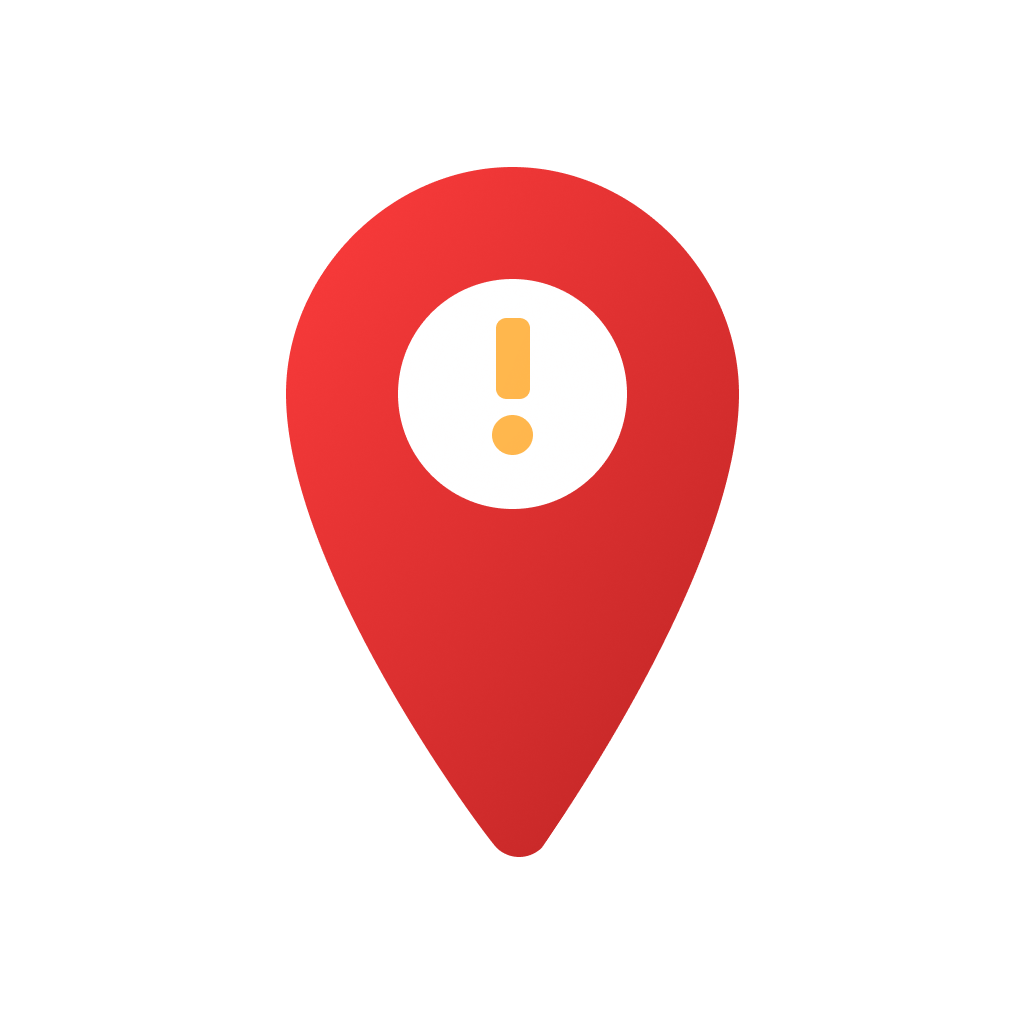
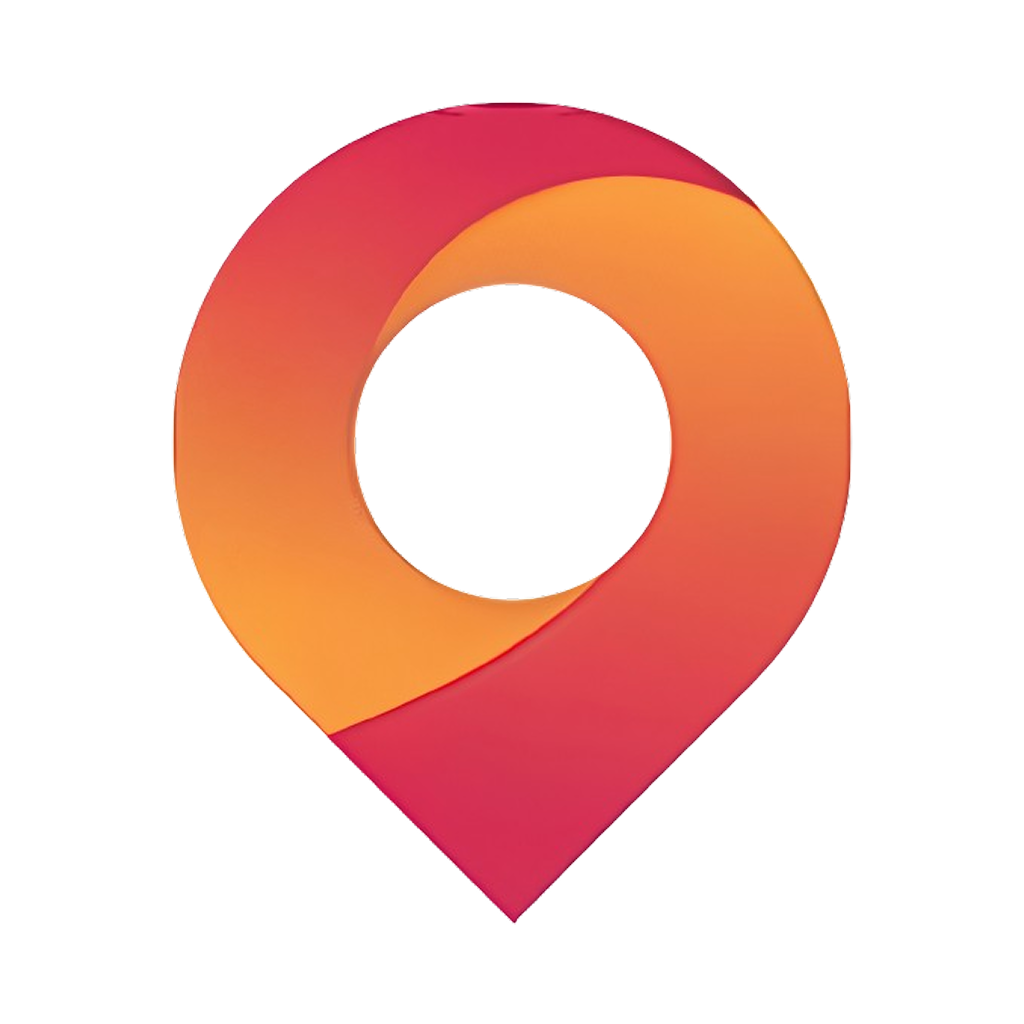
feat(android): add vibration and local notifications
- Update Android build configuration to support Java 11
- Add necessary dependencies for desugaring and androidx.window
- Add INTERNET and VIBRATE permissions to AndroidManifest.xml
- Update app icons
- Add vibration support for emergency alerts
- Add local notifications to display alerts and status updates

diff --git a/mobile/lib/pages/alerts.dart b/mobile/lib/pages/alerts.dart
@@ -3,12 +3,17 @@ import 'dart:async';
 import 'package:emergency_pulse/components/dialogs/info.dart';
 import 'package:emergency_pulse/controllers/info.controller.dart';
 import 'package:emergency_pulse/controllers/network.controller.dart';
+import 'package:emergency_pulse/controllers/settings.controller.dart';
 import 'package:emergency_pulse/enums/status.dart';
 
 import 'package:avatar_glow/avatar_glow.dart';
 import 'package:dough/dough.dart';
+import 'package:emergency_pulse/utils/dialog.dart';
 import 'package:flutter/material.dart';
+import 'package:flutter_local_notifications/flutter_local_notifications.dart';
 import 'package:get/get.dart';
+import 'package:vibration/vibration.dart';
+import 'package:vibration/vibration_presets.dart';
 
 class PageAlerts extends StatelessWidget {
   const PageAlerts({super.key});
@@ -17,8 +22,10 @@ class PageAlerts extends StatelessWidget {
   Widget build(BuildContext context) {
     final infoCtrl = Get.find<InfoController>();
     final networkCtrl = Get.find<NetworkController>();
-    final timeoutInSeconds = 5;
+    final settingsCtrl = Get.find<SettingsController>();
+    final timeoutInSeconds = 3;
     final currentTimeout = timeoutInSeconds.obs;
+    final isPressed = false.obs;
     final scale = 1.0.obs;
 
     Timer? timer;
@@ -169,113 +176,119 @@ class PageAlerts extends StatelessWidget {
                             networkCtrl.status.value ==
                                 NetworkStatus.connected &&
                             !infoCtrl.isSendingAlert.value,
-                        glowColor: currentTimeout.value == timeoutInSeconds
-                            ? Theme.of(context).colorScheme.primary
-                            : Theme.of(context).colorScheme.onSurface,
-                        child: FilledButton(
-                          style: FilledButton.styleFrom(
-                            backgroundColor:
-                                currentTimeout.value == timeoutInSeconds
-                                ? Theme.of(context).colorScheme.primary
-                                : Theme.of(context).colorScheme.onSurface,
-                          ),
-                          onPressed:
-                              infoCtrl.hasInfoFilled() &&
-                                  infoCtrl.isLocationListening.value &&
-                                  networkCtrl.status.value ==
-                                      NetworkStatus.connected &&
-                                  !infoCtrl.isSendingAlert.value
-                              ? () {
-                                  if (currentTimeout.value ==
-                                      timeoutInSeconds) {
-                                    currentTimeout.value--;
+                        glowColor: isPressed.value
+                            ? Theme.of(context).colorScheme.onSurface
+                            : Theme.of(context).colorScheme.primary,
 
-                                    scale.value = 1.2;
+                        child: GestureDetector(
+                          onLongPressStart: (details) {
+                            debugPrint("Long press started");
+                            isPressed.value = true;
 
-                                    timer = Timer.periodic(
-                                      Duration(seconds: 1),
-                                      (timer) {
-                                        currentTimeout.value--;
+                            if (settingsCtrl.hasVibrator.value) {
+                              Vibration.vibrate(
+                                preset: VibrationPreset.gentleReminder,
+                              );
+                            }
 
-                                        if (currentTimeout.value <= 0) {
-                                          timer.cancel();
-                                          scale.value = 1.0;
-                                          currentTimeout.value =
-                                              timeoutInSeconds;
-                                        }
-                                      },
-                                    );
-                                  } else {
-                                    scale.value = 1.0;
-                                    timer?.cancel();
-                                    currentTimeout.value = timeoutInSeconds;
-                                    infoCtrl.checkLocationPermission();
-                                    networkCtrl.sendAlert();
-                                  }
+                            timer = Timer.periodic(const Duration(seconds: 1), (
+                              timer,
+                            ) {
+                              currentTimeout.value--;
+
+                              if (currentTimeout.value <= 0) {
+                                if (settingsCtrl.hasVibrator.value) {
+                                  Vibration.vibrate(
+                                    preset: VibrationPreset.emergencyAlert,
+                                  );
                                 }
-                              : null,
-                          child: Column(
-                            mainAxisSize: MainAxisSize.min,
-                            mainAxisAlignment: MainAxisAlignment.center,
-                            crossAxisAlignment: CrossAxisAlignment.center,
-                            children: [
-                              if (!infoCtrl.isSendingAlert.value)
+
+                                timer.cancel();
+                                isPressed.value = false;
+                                networkCtrl.sendAlert();
+                                currentTimeout.value = timeoutInSeconds;
+                              }
+                            });
+                          },
+                          onLongPressEnd: (details) {
+                            debugPrint("Long press ended");
+                            isPressed.value = false;
+                            timer?.cancel();
+                            currentTimeout.value = timeoutInSeconds;
+
+                            if (settingsCtrl.hasVibrator.value) {
+                              Vibration.vibrate(
+                                preset: VibrationPreset.gentleReminder,
+                              );
+                            }
+
+                            showAlertDialog(
+                              "Alert canceled",
+                              "You stopped the alert. Everything's okay.",
+                            );
+                          },
+                          child: Container(
+                            decoration: BoxDecoration(
+                              shape: BoxShape.circle,
+                              color: isPressed.value
+                                  ? Theme.of(context).colorScheme.onSurface
+                                  : Theme.of(context).colorScheme.primary,
+                            ),
+                            width: double.infinity,
+                            height: double.infinity,
+                            child: Column(
+                              mainAxisAlignment: MainAxisAlignment.center,
+                              crossAxisAlignment: CrossAxisAlignment.center,
+                              mainAxisSize: MainAxisSize.min,
+                              children: [
                                 Text(
-                                  currentTimeout.value < timeoutInSeconds
-                                      ? "Tap again to"
-                                      : "Double-tap to",
+                                  isPressed.value
+                                      ? "Will send alert in"
+                                      : "Long press for 3 seconds to",
                                   style: Theme.of(context).textTheme.bodyMedium
                                       ?.copyWith(
                                         fontWeight: FontWeight.w500,
-                                        color:
-                                            currentTimeout.value ==
-                                                timeoutInSeconds
+                                        letterSpacing: 0,
+                                        color: isPressed.value
                                             ? Theme.of(
                                                 context,
-                                              ).colorScheme.onPrimary
-                                            : Theme.of(
-                                                context,
-                                              ).colorScheme.surface,
+                                              ).colorScheme.surface
+                                            : Theme.of(context)
+                                                  .colorScheme
+                                                  .onPrimary
+                                                  .withAlpha(220),
                                       ),
                                 ),
 
-                              Text(
-                                infoCtrl.isSendingAlert.value
-                                    ? "Sending..."
-                                    : "Send Alert",
-                                style: Theme.of(context).textTheme.headlineSmall
-                                    ?.copyWith(
-                                      color:
-                                          currentTimeout.value ==
-                                              timeoutInSeconds
-                                          ? Theme.of(
-                                              context,
-                                            ).colorScheme.onPrimary
-                                          : Theme.of(
-                                              context,
-                                            ).colorScheme.surface,
-                                      fontWeight: FontWeight.w500,
-                                    ),
-                              ),
-
-                              if (currentTimeout.value < timeoutInSeconds)
-                                Text(
-                                  "Will cancel in ${currentTimeout.value} seconds",
-                                  style: Theme.of(context).textTheme.bodyMedium
-                                      ?.copyWith(
-                                        fontWeight: FontWeight.w500,
-                                        color:
-                                            currentTimeout.value ==
-                                                timeoutInSeconds
-                                            ? Theme.of(
-                                                context,
-                                              ).colorScheme.onPrimary
-                                            : Theme.of(
-                                                context,
-                                              ).colorScheme.surface,
-                                      ),
-                                ),
-                            ],
+                                if (isPressed.value)
+                                  Text(
+                                    "${currentTimeout.value}",
+                                    style: Theme.of(context)
+                                        .textTheme
+                                        .displayMedium
+                                        ?.copyWith(
+                                          fontWeight: FontWeight.w500,
+                                          letterSpacing: 0,
+                                          color: Theme.of(
+                                            context,
+                                          ).colorScheme.surface,
+                                        ),
+                                  )
+                                else
+                                  Text(
+                                    "Send Alert",
+                                    style: Theme.of(context)
+                                        .textTheme
+                                        .headlineSmall
+                                        ?.copyWith(
+                                          fontWeight: FontWeight.bold,
+                                          color: Theme.of(
+                                            context,
+                                          ).colorScheme.onPrimary,
+                                        ),
+                                  ),
+                              ],
+                            ),
                           ),
                         ),
                       ),

diff --git a/mobile/lib/network/request.dart b/mobile/lib/network/request.dart
@@ -4,6 +4,7 @@ import 'dart:typed_data';
 import 'package:emergency_pulse/controllers/location.controller.dart';
 import 'package:emergency_pulse/controllers/network.controller.dart';
 import 'package:emergency_pulse/model/alert.dart';
+import 'package:emergency_pulse/utils/dialog.dart';
 import 'package:emergency_pulse/utils/file.dart';
 import 'package:flutter/widgets.dart';
 import 'package:flutter_image_compress/flutter_image_compress.dart';
@@ -45,6 +46,12 @@ Future<void> fetchAlerts() async {
   debugPrint(
     "[2] Failed to fetch alerts with status code ${response.statusCode}",
   );
+
+  showAlertDialog(
+    "Failed to fetch alerts",
+    "Can't acquire alerts. Please tap refresh alerts again.",
+  );
+
   return;
 }
 
@@ -75,6 +82,12 @@ Future<bool> markAsDone(String hashId, String remarks, Uint8List image) async {
       const Duration(seconds: 10),
       onTimeout: () async {
         debugPrint("[1] Failed to mark alert as done!");
+
+        showAlertDialog(
+          "Failed to mark alert as done",
+          "An error occurred while marking alert as done. Please try again later.",
+        );
+
         return http.StreamedResponse(Stream.value([]), 408);
       },
     );

diff --git a/mobile/lib/main.dart b/mobile/lib/main.dart
@@ -8,9 +8,11 @@ import 'package:emergency_pulse/pages/home.dart' show PageHome;
 import 'package:emergency_pulse/theme.dart';
 
 import 'package:flutter/material.dart';
+import 'package:flutter_local_notifications/flutter_local_notifications.dart';
 import 'package:hive_flutter/hive_flutter.dart';
 import 'package:get/get.dart';
 import 'package:package_info_plus/package_info_plus.dart';
+import 'package:vibration/vibration.dart';
 
 void main() async {
   WidgetsFlutterBinding.ensureInitialized();
@@ -26,7 +28,16 @@ void main() async {
   Get.put(LocationController());
 
   settingsCtrl.packageInfo = await PackageInfo.fromPlatform();
+  settingsCtrl.hasVibrator.value = await Vibration.hasVibrator();
+
   infoCtrl.load();
+
+  final flutterLocalNotificationsPlugin = FlutterLocalNotificationsPlugin();
+  final initializationSettings = InitializationSettings(
+    android: AndroidInitializationSettings("ic_launcher"),
+  );
+
+  await flutterLocalNotificationsPlugin.initialize(initializationSettings);
 
   runApp(const MyApp());
 }

diff --git a/mobile/lib/controllers/network.controller.dart b/mobile/lib/controllers/network.controller.dart
@@ -66,8 +66,8 @@ class NetworkController extends GetxController {
       // 2. Listen for incoming data
       socket!.listen(
         (List<int> event) {
-          final message = utf8.decode(event);
-          debugPrint('Server: $message');
+          // final message = utf8.decode(event);
+          // debugPrint('Server: $message');
 
           // if (message == "ACK") {
           //   infoCtrl.isSendingAlert.value = false;

diff --git a/mobile/lib/controllers/settings.controller.dart b/mobile/lib/controllers/settings.controller.dart
@@ -7,6 +7,7 @@ class SettingsController extends GetxController {
   final isDarkMode = false.obs;
   final mainScaffoldKey = GlobalKey<ScaffoldState>();
   final isTabOpen = false.obs;
+  final hasVibrator = false.obs;
 
   PackageInfo? packageInfo;
   TabController? tabController;

diff --git a/mobile/lib/views/alerts_sheet.dart b/mobile/lib/views/alerts_sheet.dart
@@ -13,7 +13,7 @@ class SheetAlerts extends StatelessWidget {
     final locationCtrl = Get.find<LocationController>();
 
     return SizedBox(
-      height: 400,
+      height: 500,
       child: Column(
         mainAxisSize: MainAxisSize.min,
         children: [
